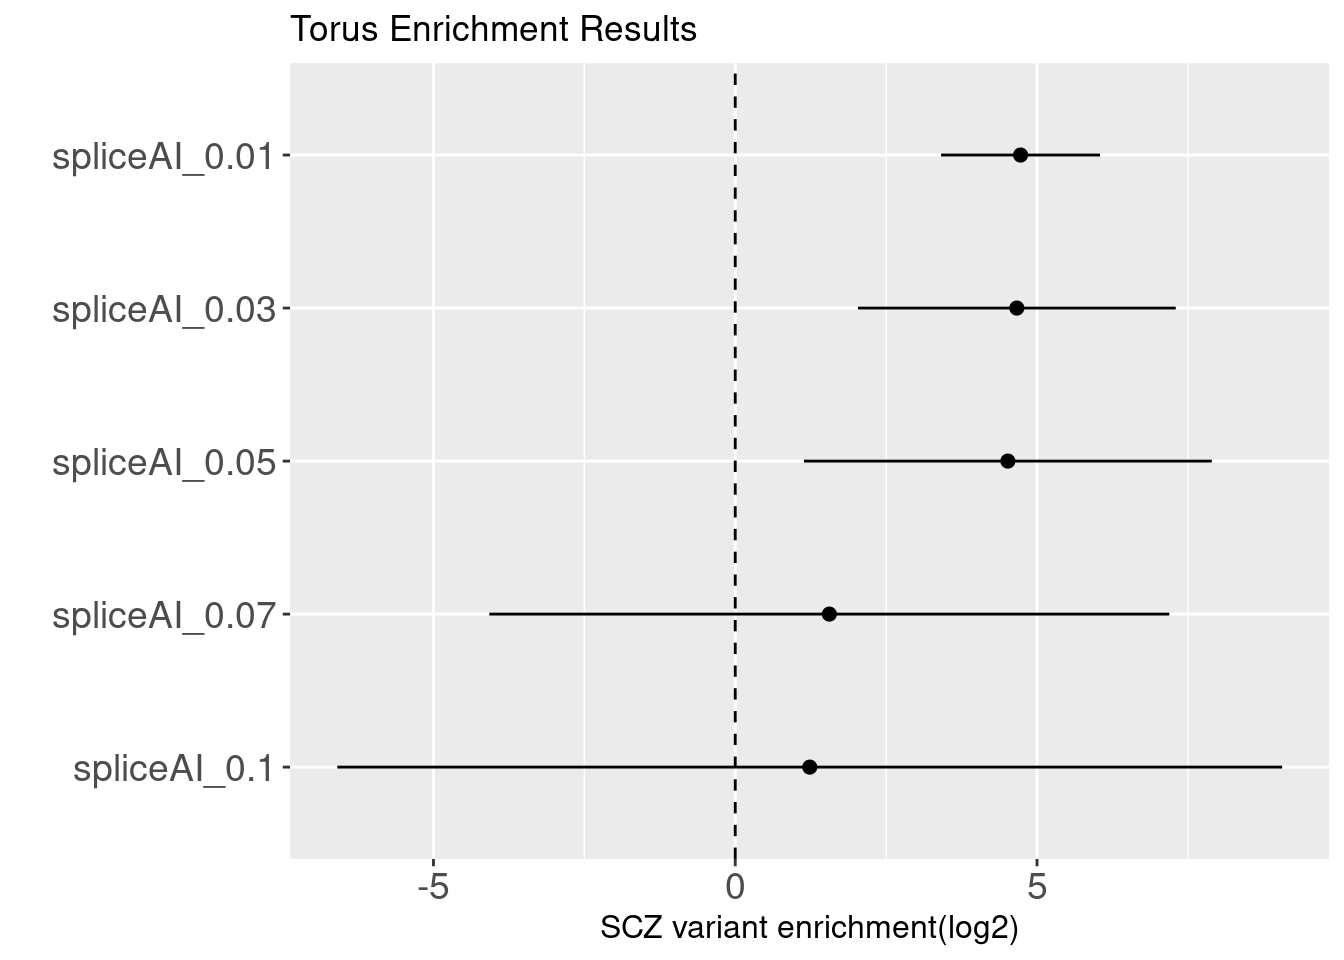
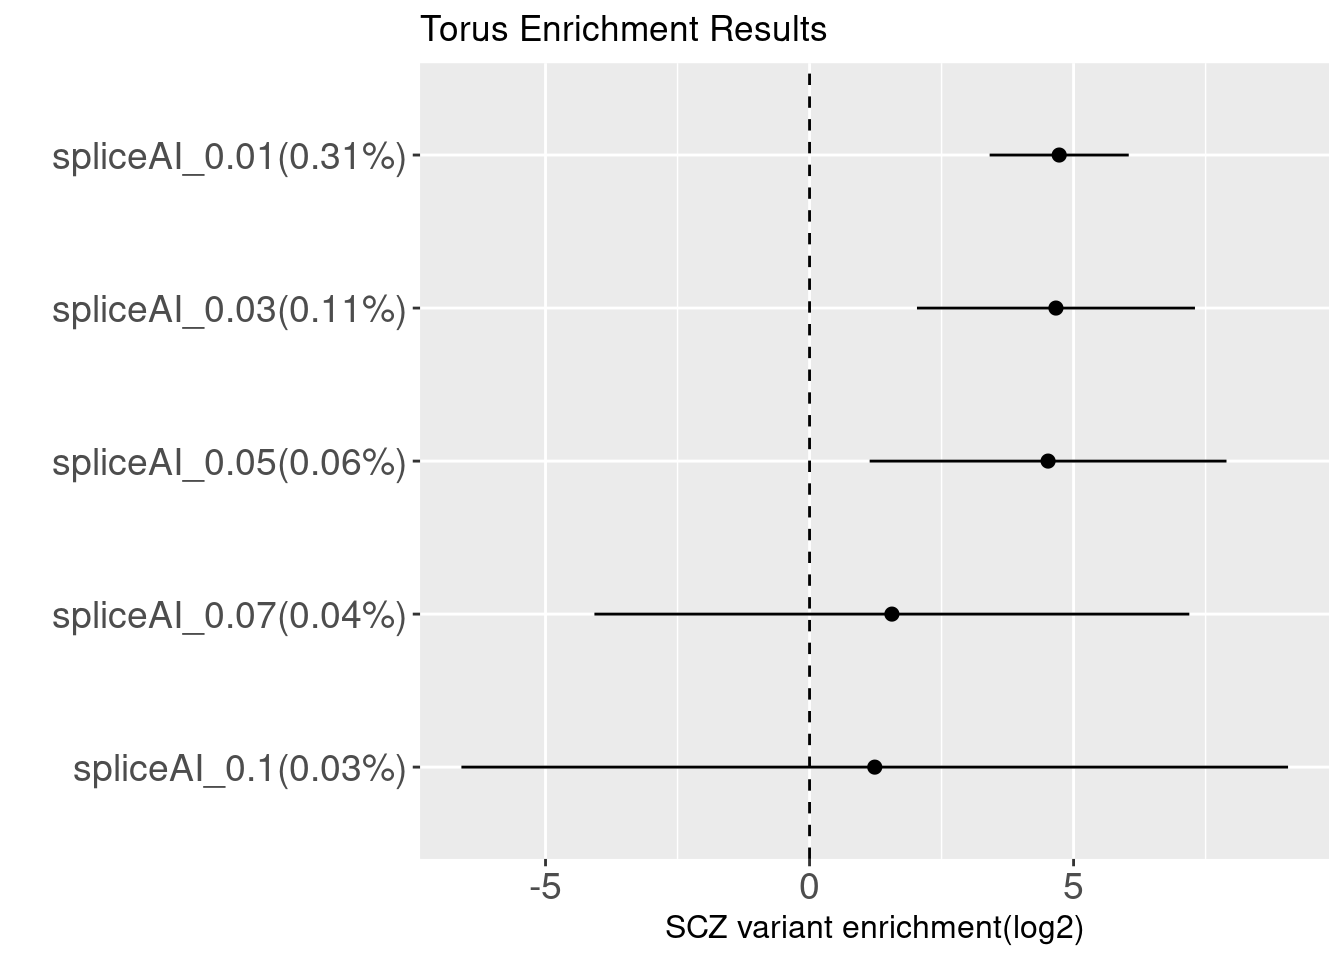
Build site.

diff --git a/docs/enrichment_analysis.html b/docs/enrichment_analysis.html
@@ -370,7 +370,7 @@ div.tocify {
 <div class="tab-content">
 <div id="summary" class="tab-pane fade in active">
 <p>
-<strong>Last updated:</strong> 2021-09-08
+<strong>Last updated:</strong> 2021-09-23
 </p>
 <p>
 <strong>Checks:</strong> <span class="glyphicon glyphicon-ok text-success" aria-hidden="true"></span> 6 <span class="glyphicon glyphicon-exclamation-sign text-danger" aria-hidden="true"></span> 1
@@ -501,16 +501,16 @@ output/scz_immune_joint_enrichment.png
 <div class="panel panel-default">
 <div class="panel-heading">
 <p class="panel-title">
-<a data-toggle="collapse" data-parent="#workflowr-checks" href="#strongRepositoryversionstrongahrefhttpsgithubcomj3gufuncFinemappingtreea9e127881328640e866cdf84795a4f7ac4b120f2targetblanka9e1278a"> <span class="glyphicon glyphicon-ok text-success" aria-hidden="true"></span> <strong>Repository version:</strong> <a href="https://github.com/j3gu/funcFinemapping/tree/a9e127881328640e866cdf84795a4f7ac4b120f2" target="_blank">a9e1278</a> </a>
+<a data-toggle="collapse" data-parent="#workflowr-checks" href="#strongRepositoryversionstrongahrefhttpsgithubcomj3gufuncFinemappingtree356fe371f493b0532178e8c515b861a12d27c32btargetblank356fe37a"> <span class="glyphicon glyphicon-ok text-success" aria-hidden="true"></span> <strong>Repository version:</strong> <a href="https://github.com/j3gu/funcFinemapping/tree/356fe371f493b0532178e8c515b861a12d27c32b" target="_blank">356fe37</a> </a>
 </p>
 </div>
[2 lines of base64/hex data omitted]
 <div class="panel-body">
 <p>
 Great! You are using Git for version control. Tracking code development and connecting the code version to the results is critical for reproducibility.
 </p>
 <p>
-The results in this page were generated with repository version <a href="https://github.com/j3gu/funcFinemapping/tree/a9e127881328640e866cdf84795a4f7ac4b120f2" target="_blank">a9e1278</a>. See the <em>Past versions</em> tab to see a history of the changes made to the R Markdown and HTML files.
+The results in this page were generated with repository version <a href="https://github.com/j3gu/funcFinemapping/tree/356fe371f493b0532178e8c515b861a12d27c32b" target="_blank">356fe37</a>. See the <em>Past versions</em> tab to see a history of the changes made to the R Markdown and HTML files.
 </p>
 <p>
 Note that you need to be careful to ensure that all relevant files for the analysis have been committed to Git prior to generating the results (you can use <code>wflow_publish</code> or <code>wflow_git_commit</code>). workflowr only checks the R Markdown file, but you know if there are other scripts or data files that it depends on. Below is the status of the Git repository when the results were generated:
@@ -550,24 +550,8 @@ Untracked files:
     Untracked:  fig2.pdf
     Untracked:  fig_panel2.pdf
     Untracked:  gene_mapping.pdf
-    Untracked:  output/joint_history/
-    Untracked:  output/joint_torus_conservation_enrichment.est
-    Untracked:  output/proposal_fig1.pdf
-    Untracked:  output/proposal_fig2.pdf
-    Untracked:  output/proposal_gene_mapping_figure.pdf
-    Untracked:  output/scz_bmi_joint_enrichment.png
-    Untracked:  output/scz_immune_joint_enrichment.png
-    Untracked:  output/scz_lipid_joint_enrichment.png
-    Untracked:  output/torus_enrichment_CDTS_vs_OCR.est
-    Untracked:  output/torus_enrichment_DMR.est
-    Untracked:  output/torus_enrichment_constraints.est
-    Untracked:  output/torus_enrichment_ctcf.est
-    Untracked:  output/torus_enrichment_m6A.est
-    Untracked:  output/torus_joint_refined_enrichment.est
-    Untracked:  output/torus_marginal_enrich_DMR.est
-    Untracked:  output/torus_marginal_enrich_ctcf.est
-    Untracked:  output/torus_marginal_enrich_m6A.est
     Untracked:  panel_figure2.pdf
+    Untracked:  test.txt
 
 Unstaged changes:
     Modified:   analysis/biology_bkg.Rmd
@@ -616,6 +600,40 @@ Message
 </tr>
 </thead>
 <tbody>
+<tr>
+<td>
+Rmd
+</td>
+<td>
+<a href="https://github.com/j3gu/funcFinemapping/blob/356fe371f493b0532178e8c515b861a12d27c32b/analysis/enrichment_analysis.Rmd" target="_blank">356fe37</a>
+</td>
+<td>
+Jing Gu
+</td>
+<td>
+2021-09-23
+</td>
+<td>
+computed percent of random SNPs above spliceAI thresholds
+</td>
+</tr>
+<tr>
+<td>
+html
+</td>
+<td>
+<a href="https://rawcdn.githack.com/j3gu/funcFinemapping/639aacfea2387dc7ad5dd85854b4666912d3c0c1/docs/enrichment_analysis.html" target="_blank">639aacf</a>
+</td>
+<td>
+Jing Gu
+</td>
+<td>
+2021-09-08
+</td>
+<td>
+Build site.
+</td>
+</tr>
 <tr>
 <td>
 Rmd
@@ -1328,7 +1346,7 @@ Jing Gu
 </table>
 </div>
 </div>
-<p>SpliceAI predictions with a cutoff lower than 0.05 show enrichment with SCZ risk variants. This implies SCZ risk variants are less likely to affect traits by disrupting mRNA splicing.</p>
+<p>The percentage of random SNPs above each spliceAI threshold was listed in the parenthesis.</p>
 <p>Across traits and cutoffs <img src="figure/enrichment_analysis.Rmd/unnamed-chunk-19-1.png" width="1152" style="display: block; margin: auto;" /></p>
 <p>
 <button type="button" class="btn btn-default btn-xs btn-workflowr btn-workflowr-fig" data-toggle="collapse" data-target="#fig-unnamed-chunk-19-1">
@@ -1549,6 +1567,17 @@ Date
 <tbody>
 <tr>
 <td>
+<a href="https://github.com/j3gu/funcFinemapping/blob/639aacfea2387dc7ad5dd85854b4666912d3c0c1/docs/figure/enrichment_analysis.Rmd/unnamed-chunk-23-1.png" target="_blank">639aacf</a>
+</td>
+<td>
+Jing Gu
+</td>
+<td>
+2021-09-08
+</td>
+</tr>
+<tr>
+<td>
 <a href="https://github.com/j3gu/funcFinemapping/blob/bc419c1a7fad4def06da909ddf4656e641160bd7/docs/figure/enrichment_analysis.Rmd/unnamed-chunk-23-1.png" target="_blank">bc419c1</a>
 </td>
 <td>
@@ -1609,6 +1638,17 @@ Date
 <tbody>
 <tr>
 <td>
+<a href="https://github.com/j3gu/funcFinemapping/blob/639aacfea2387dc7ad5dd85854b4666912d3c0c1/docs/figure/enrichment_analysis.Rmd/unnamed-chunk-24-1.png" target="_blank">639aacf</a>
+</td>
+<td>
+Jing Gu
+</td>
+<td>
+2021-09-08
+</td>
+</tr>
+<tr>
+<td>
 <a href="https://github.com/j3gu/funcFinemapping/blob/bc419c1a7fad4def06da909ddf4656e641160bd7/docs/figure/enrichment_analysis.Rmd/unnamed-chunk-24-1.png" target="_blank">bc419c1</a>
 </td>
 <td>
@@ -1627,11 +1667,127 @@ Jing Gu
 <p><strong>Notes</strong></p>
 <ul>
 <li>Annotations with no estimates mean they have negative values.</li>
-<li><p>If the lower end of 95% confidence interval of an estimate is negative, it will be assigned as 0.05 (-4.3 as log2 based). <img src="figure/enrichment_analysis.Rmd/unnamed-chunk-26-1.png" width="768" style="display: block; margin: auto;" /><img src="figure/enrichment_analysis.Rmd/unnamed-chunk-26-2.png" width="768" style="display: block; margin: auto;" /><img src="figure/enrichment_analysis.Rmd/unnamed-chunk-26-3.png" width="768" style="display: block; margin: auto;" /> Overall, we see Torus and S-LDSC generates similar enrichment estimates, except for ibd_UC trait. There seems to be some discrepancy in the estimates, which needs a closer look. We so see the performance of annotations varies across traits.</p></li>
+<li>If the lower end of 95% confidence interval of an estimate is negative, it will be assigned as 0.05 (-4.3 as log2 based). <img src="figure/enrichment_analysis.Rmd/unnamed-chunk-26-1.png" width="768" style="display: block; margin: auto;" /></li>
+</ul>
+<p>
+<button type="button" class="btn btn-default btn-xs btn-workflowr btn-workflowr-fig" data-toggle="collapse" data-target="#fig-unnamed-chunk-26-1">
+Past versions of unnamed-chunk-26-1.png
+</button>
+</p>
+<div id="fig-unnamed-chunk-26-1" class="collapse">
+<div class="table-responsive">
+<table class="table table-condensed table-hover">
+<thead>
+<tr>
+<th>
+Version
+</th>
+<th>
+Author
+</th>
+<th>
+Date
+</th>
+</tr>
+</thead>
+<tbody>
+<tr>
+<td>
+<a href="https://github.com/j3gu/funcFinemapping/blob/639aacfea2387dc7ad5dd85854b4666912d3c0c1/docs/figure/enrichment_analysis.Rmd/unnamed-chunk-26-1.png" target="_blank">639aacf</a>
+</td>
+<td>
+Jing Gu
+</td>
+<td>
+2021-09-08
+</td>
+</tr>
+</tbody>
+</table>
+</div>
+</div>
+<p><img src="figure/enrichment_analysis.Rmd/unnamed-chunk-26-2.png" width="768" style="display: block; margin: auto;" /></p>
+<p>
+<button type="button" class="btn btn-default btn-xs btn-workflowr btn-workflowr-fig" data-toggle="collapse" data-target="#fig-unnamed-chunk-26-2">
+Past versions of unnamed-chunk-26-2.png
+</button>
+</p>
+<div id="fig-unnamed-chunk-26-2" class="collapse">
+<div class="table-responsive">
+<table class="table table-condensed table-hover">
+<thead>
+<tr>
+<th>
+Version
+</th>
+<th>
+Author
+</th>
+<th>
+Date
+</th>
+</tr>
+</thead>
+<tbody>
+<tr>
+<td>
+<a href="https://github.com/j3gu/funcFinemapping/blob/639aacfea2387dc7ad5dd85854b4666912d3c0c1/docs/figure/enrichment_analysis.Rmd/unnamed-chunk-26-2.png" target="_blank">639aacf</a>
+</td>
+<td>
+Jing Gu
+</td>
+<td>
+2021-09-08
+</td>
+</tr>
+</tbody>
+</table>
+</div>
+</div>
+<p><img src="figure/enrichment_analysis.Rmd/unnamed-chunk-26-3.png" width="768" style="display: block; margin: auto;" /></p>
+<p>
+<button type="button" class="btn btn-default btn-xs btn-workflowr btn-workflowr-fig" data-toggle="collapse" data-target="#fig-unnamed-chunk-26-3">
+Past versions of unnamed-chunk-26-3.png
+</button>
+</p>
+<div id="fig-unnamed-chunk-26-3" class="collapse">
+<div class="table-responsive">
+<table class="table table-condensed table-hover">
+<thead>
+<tr>
+<th>
+Version
+</th>
+<th>
+Author
+</th>
+<th>
+Date
+</th>
+</tr>
+</thead>
+<tbody>
+<tr>
+<td>
+<a href="https://github.com/j3gu/funcFinemapping/blob/639aacfea2387dc7ad5dd85854b4666912d3c0c1/docs/figure/enrichment_analysis.Rmd/unnamed-chunk-26-3.png" target="_blank">639aacf</a>
+</td>
+<td>
+Jing Gu
+</td>
+<td>
+2021-09-08
+</td>
+</tr>
+</tbody>
+</table>
+</div>
+</div>
+<p>Overall, we see Torus and S-LDSC generates similar enrichment estimates, except for ibd_UC trait. There seems to be some discrepancy in the estimates, which needs a closer look. We so see the performance of annotations varies across traits.</p>
+<ul>
 <li>CDTS at top 5% bins that locate in non-coding regions can better distinguish SCZ from lipid-related trait, but no from bmi, height or immune related traits.</li>
 <li>Human CpG methylations can distinguish SCZ from both immune related traits and lipid-related traits.</li>
 <li>M6A can better distinguish SCZ from immune related traits.</li>
-<li><p>SCZ variants are not enriched in protein coding regions, while variants associated with all other traits are enriched in protein coding regions.</p></li>
+<li>SCZ variants are not enriched in protein coding regions, while variants associated with all other traits are enriched in protein coding regions.</li>
 </ul>
 <pre class="r"><code># gwas&lt;-readRDS(&quot;~/cluster/data/gwas/2_Filtered/scz_2018.rds&quot;)
 # head(gwas)
@@ -1672,23 +1828,23 @@ other attached packages:
 [5] data.table_1.14.0 workflowr_1.6.2  
 
 loaded via a namespace (and not attached):
- [1] Rcpp_1.0.6        tidyr_1.1.2       assertthat_0.2.1  rprojroot_2.0.2  
- [5] digest_0.6.27     utf8_1.1.4        R6_2.5.0          cellranger_1.1.0 
+ [1] Rcpp_1.0.7        tidyr_1.1.2       assertthat_0.2.1  rprojroot_2.0.2  
+ [5] digest_0.6.27     utf8_1.2.2        R6_2.5.1          cellranger_1.1.0 
  [9] backports_1.2.1   evaluate_0.14     highr_0.8         pillar_1.5.0     
 [13] rlang_0.4.11      curl_4.3          readxl_1.3.1      car_3.0-10       
 [17] whisker_0.4       jquerylib_0.1.3   rmarkdown_2.7     labeling_0.4.2   
 [21] stringr_1.4.0     foreign_0.8-81    munsell_0.5.0     broom_0.7.5      
 [25] compiler_4.0.4    httpuv_1.5.5      xfun_0.21         pkgconfig_2.0.3  
 [29] htmltools_0.5.1.1 tidyselect_1.1.1  tibble_3.0.6      rio_0.5.16       
-[33] fansi_0.4.2       crayon_1.4.1      dplyr_1.0.4       withr_2.4.1      
+[33] fansi_0.5.0       crayon_1.4.1      dplyr_1.0.4       withr_2.4.2      
 [37] later_1.1.0.1     grid_4.0.4        jsonlite_1.7.2    gtable_0.3.0     
 [41] lifecycle_1.0.0   DBI_1.1.1         git2r_0.28.0      magrittr_2.0.1   
 [45] scales_1.1.1      zip_2.1.1         stringi_1.5.3     carData_3.0-4    
-[49] farver_2.0.3      ggsignif_0.6.1    fs_1.5.0          promises_1.2.0.1 
+[49] farver_2.1.0      ggsignif_0.6.1    fs_1.5.0          promises_1.2.0.1 
 [53] bslib_0.2.4       ellipsis_0.3.2    generics_0.1.0    vctrs_0.3.8      
 [57] cowplot_1.1.1     openxlsx_4.2.3    tools_4.0.4       forcats_0.5.1    
 [61] glue_1.4.2        purrr_0.3.4       hms_1.0.0         abind_1.4-5      
-[65] yaml_2.2.1        colorspace_2.0-0  rstatix_0.7.0     haven_2.3.1      
+[65] yaml_2.2.1        colorspace_2.0-2  rstatix_0.7.0     haven_2.3.1      
 [69] sass_0.3.1       </code></pre>
 </div>
 </div>
